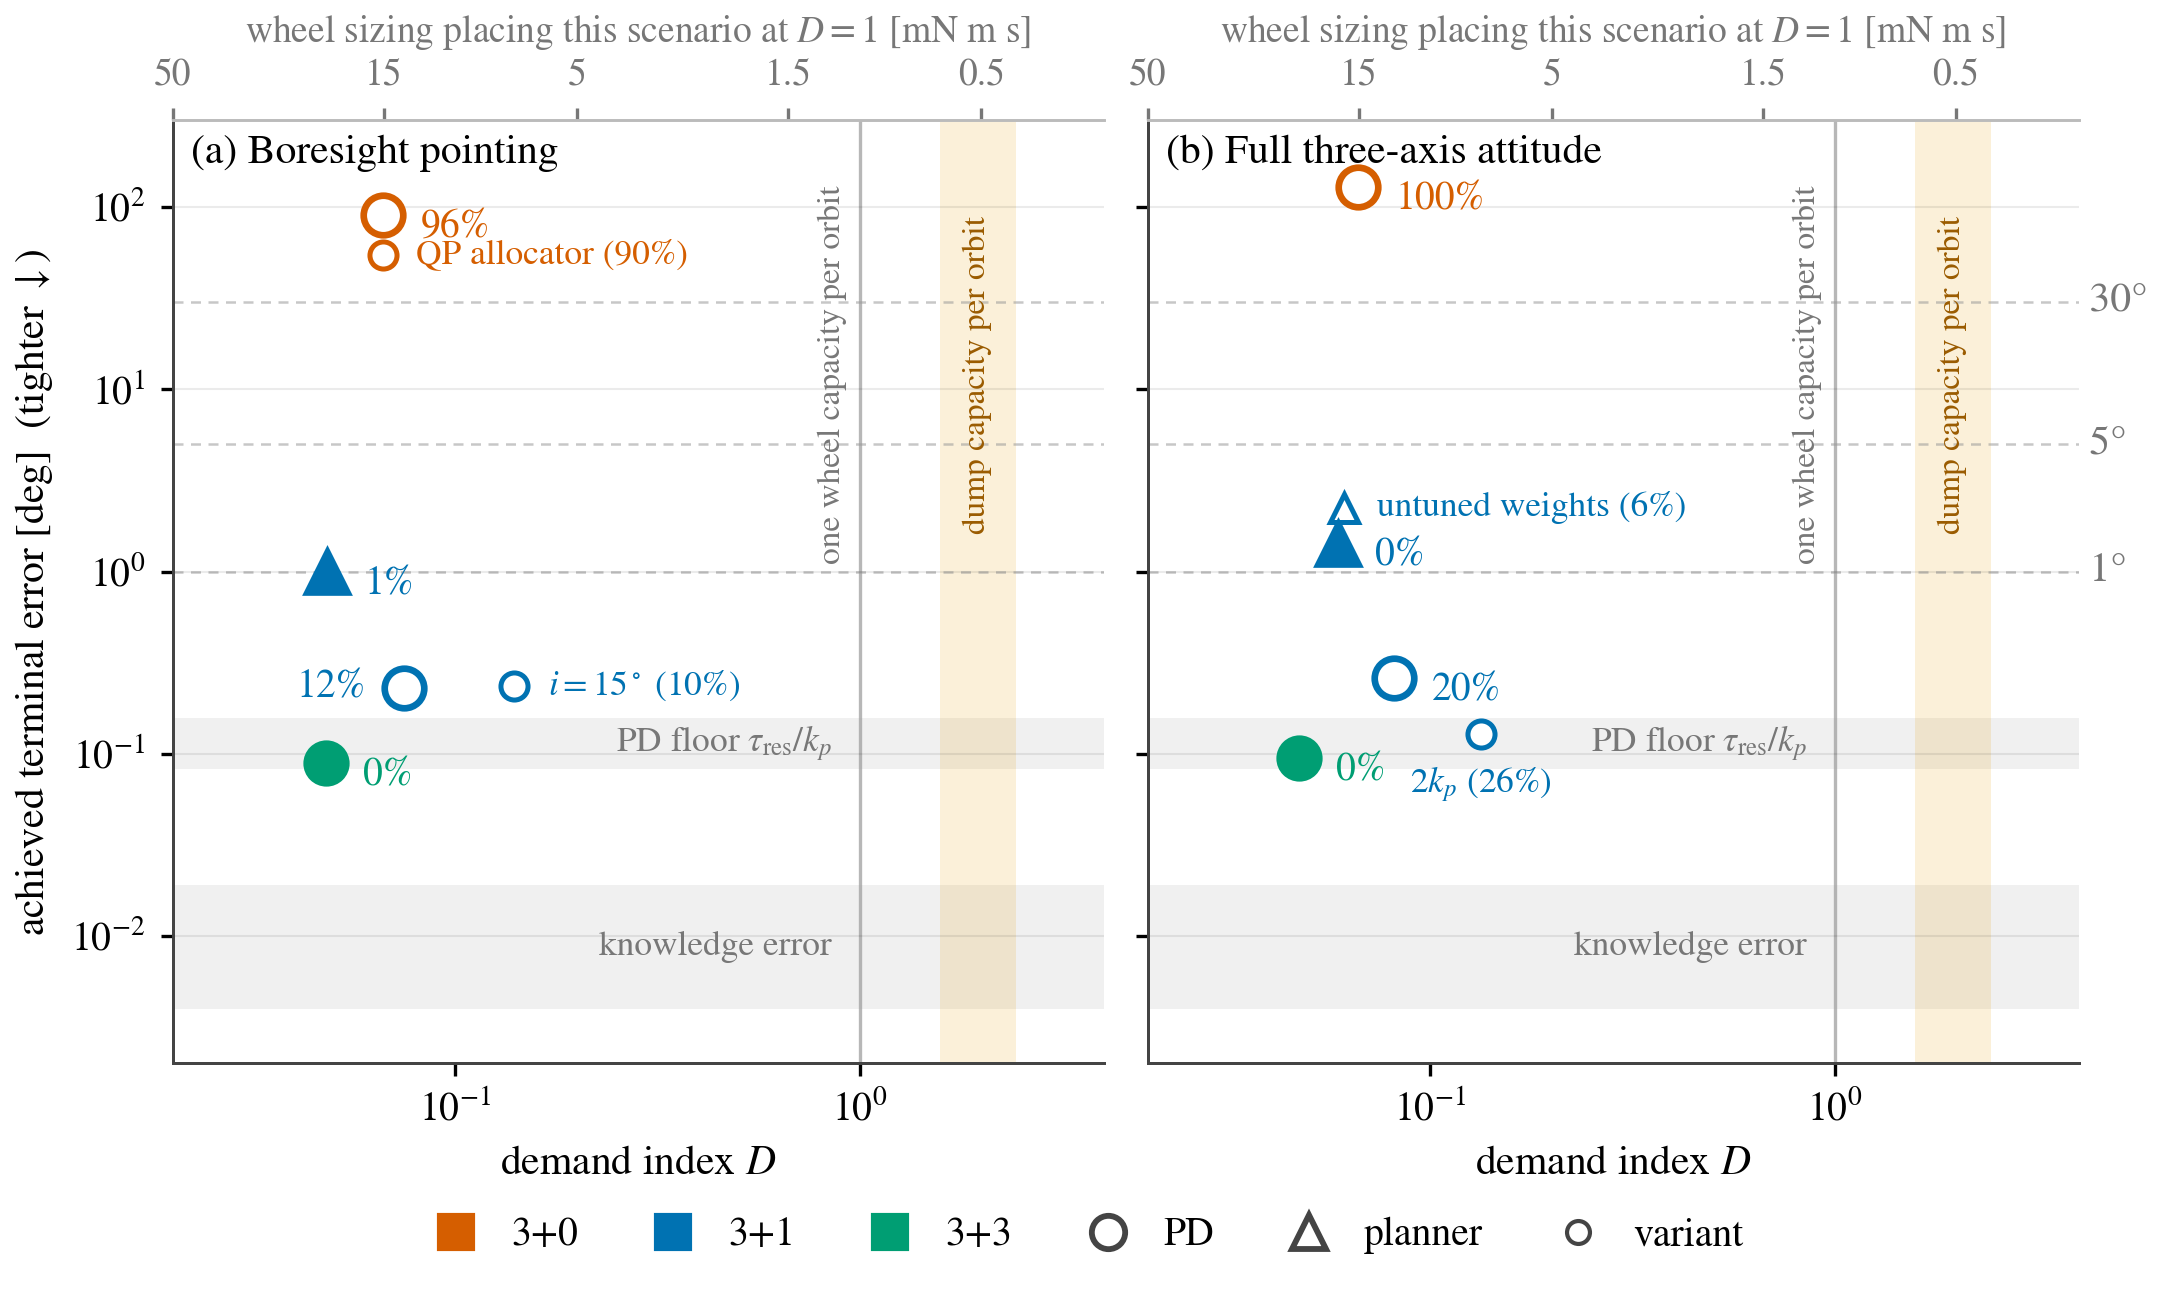
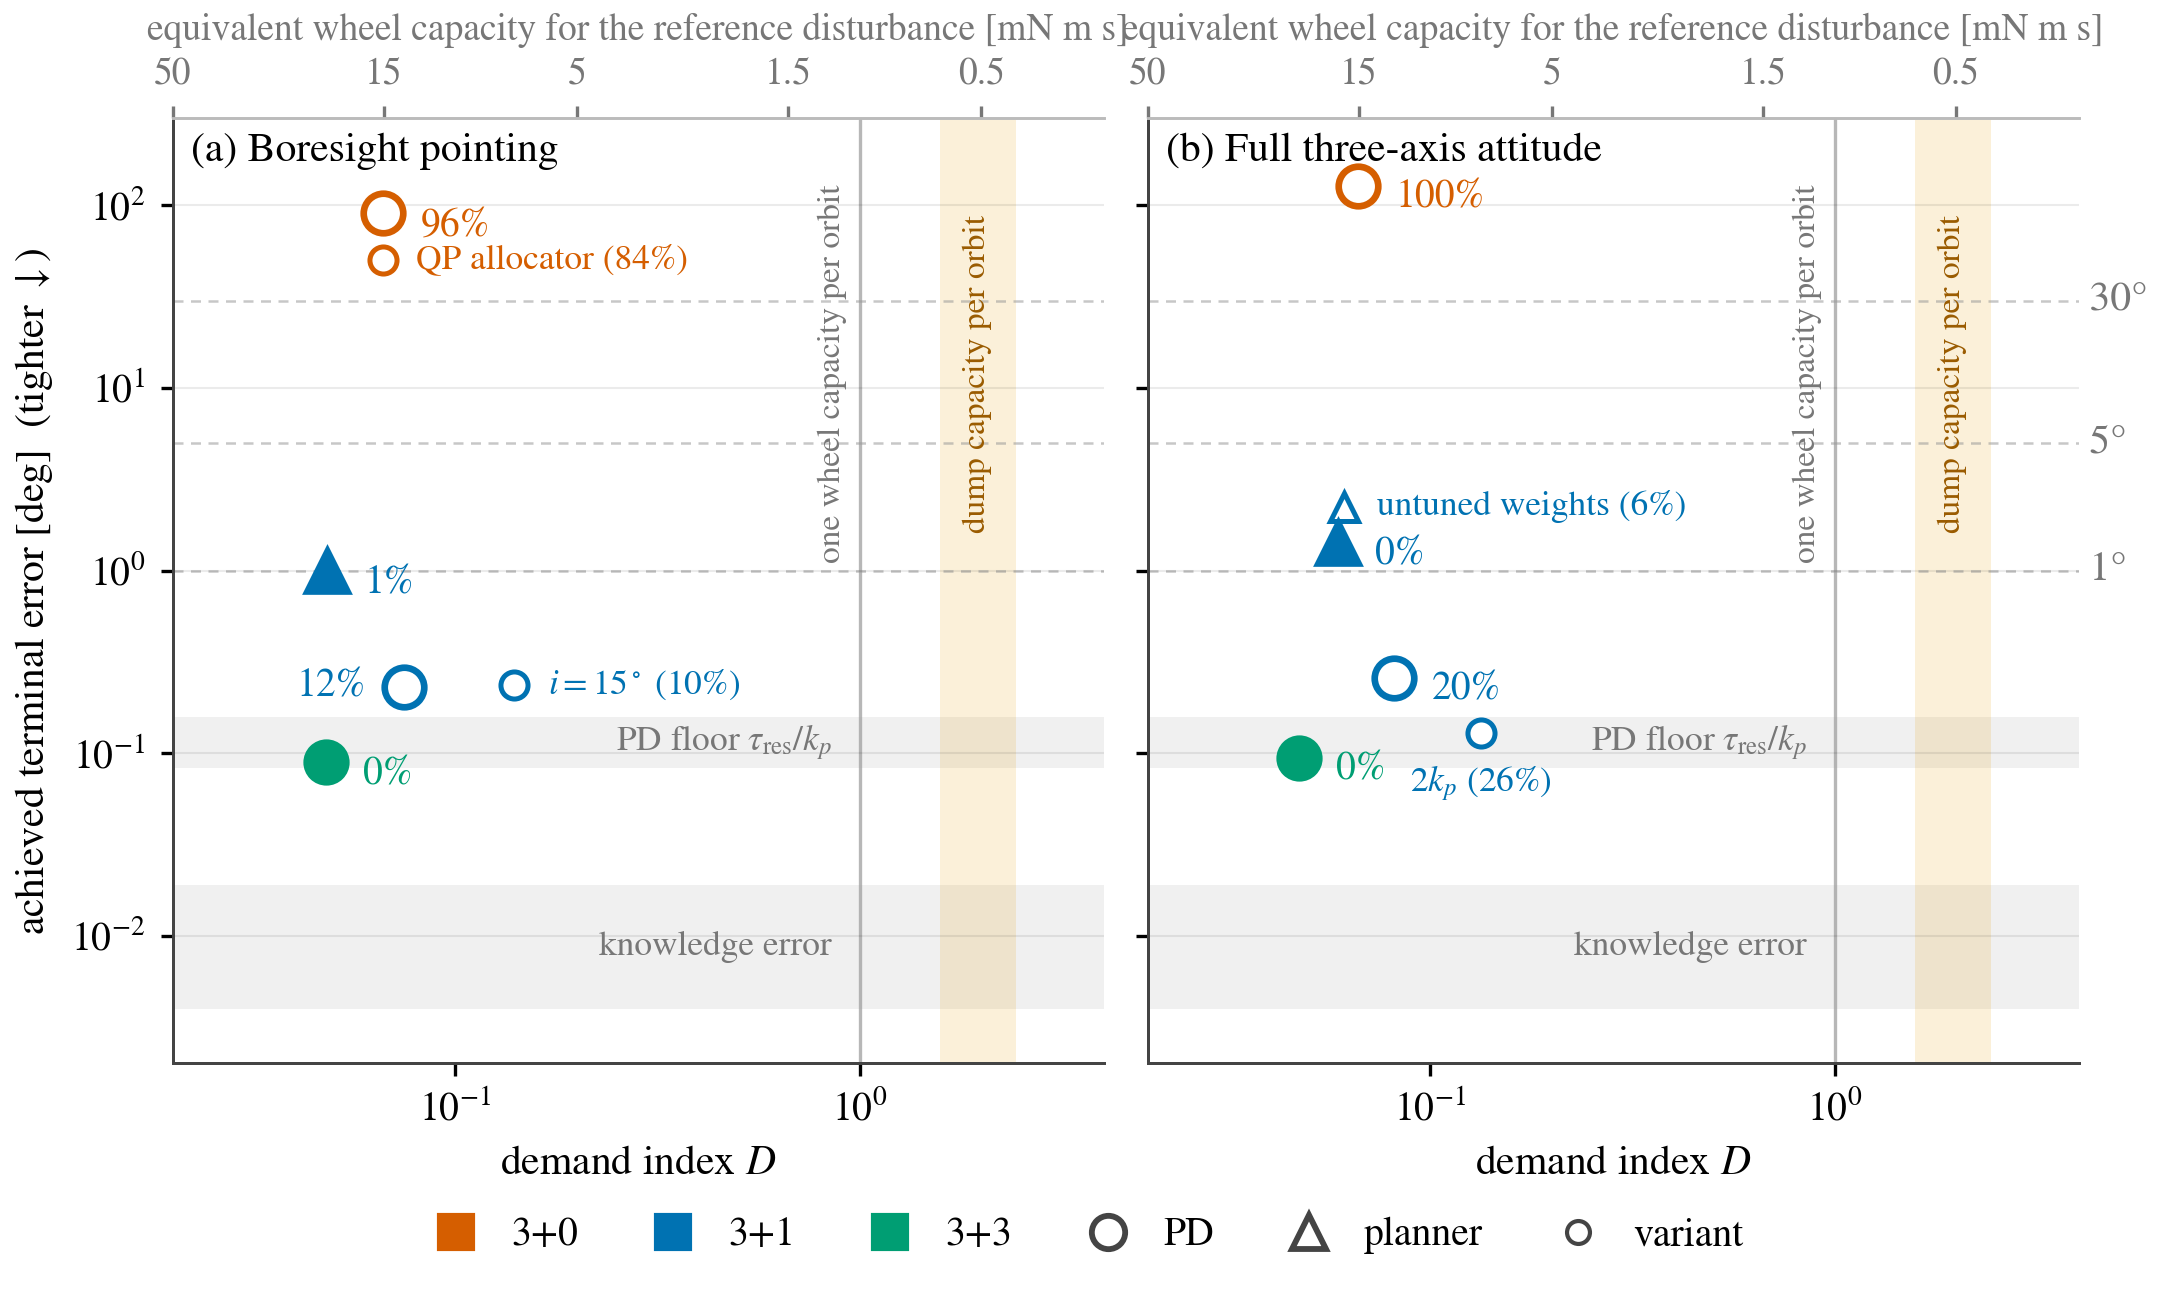
fig(IAC): v2 top-axis label 'equivalent wheel capacity for the reference disturbance'

diff --git a/papers/IAC_1RW/fig3_envelope_v2.py b/papers/IAC_1RW/fig3_envelope_v2.py
@@ -139,7 +139,7 @@ def main():
         top.tick_params(labelsize=9, colors=GREY, length=3)
         top.spines["top"].set_visible(True); top.spines["top"].set_color("#BBBBBB")
         top.spines["right"].set_visible(False)
-        top.set_xlabel("wheel sizing placing this scenario at $D=1$ [mN m s]", fontsize=9,
+        top.set_xlabel("equivalent wheel capacity for the reference disturbance [mN m s]", fontsize=9,
                        color=GREY, labelpad=4)
     axes[0].set_ylabel("achieved terminal error [deg]  (tighter $\\downarrow$)")
 
